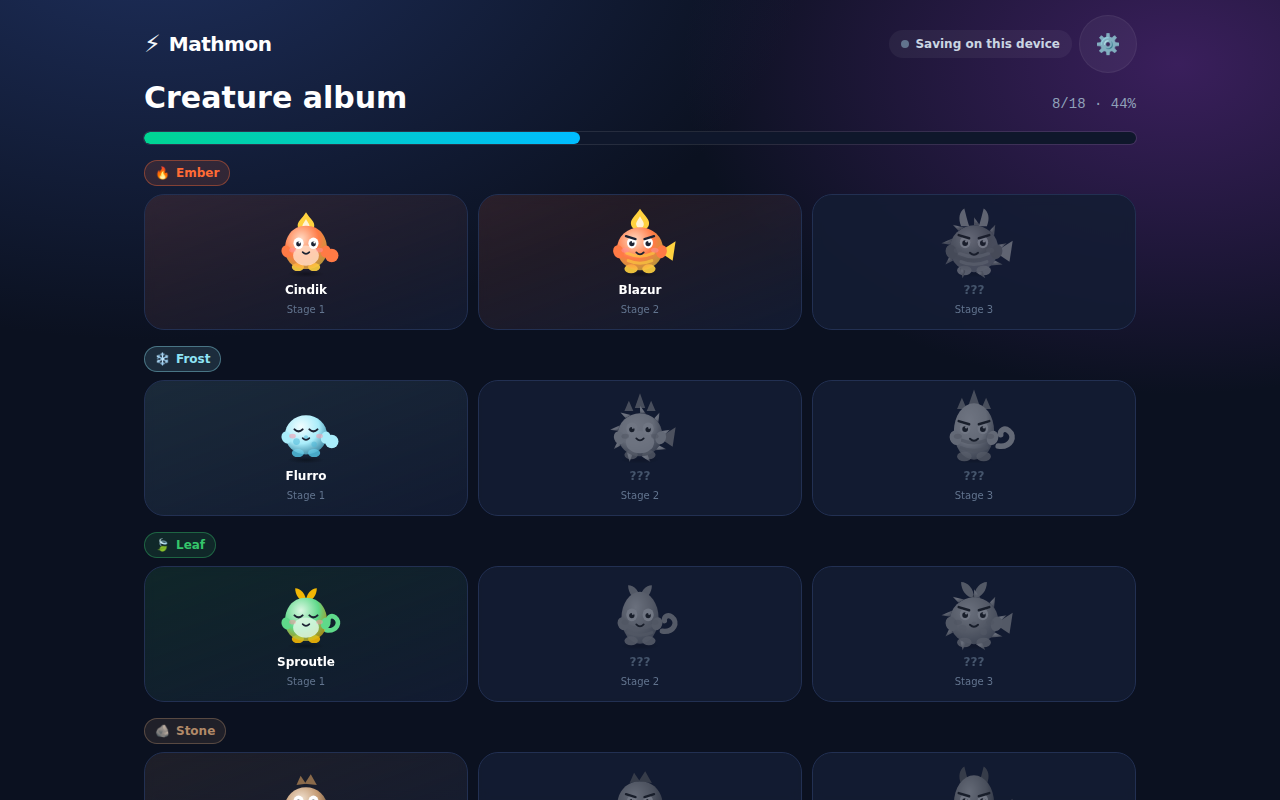
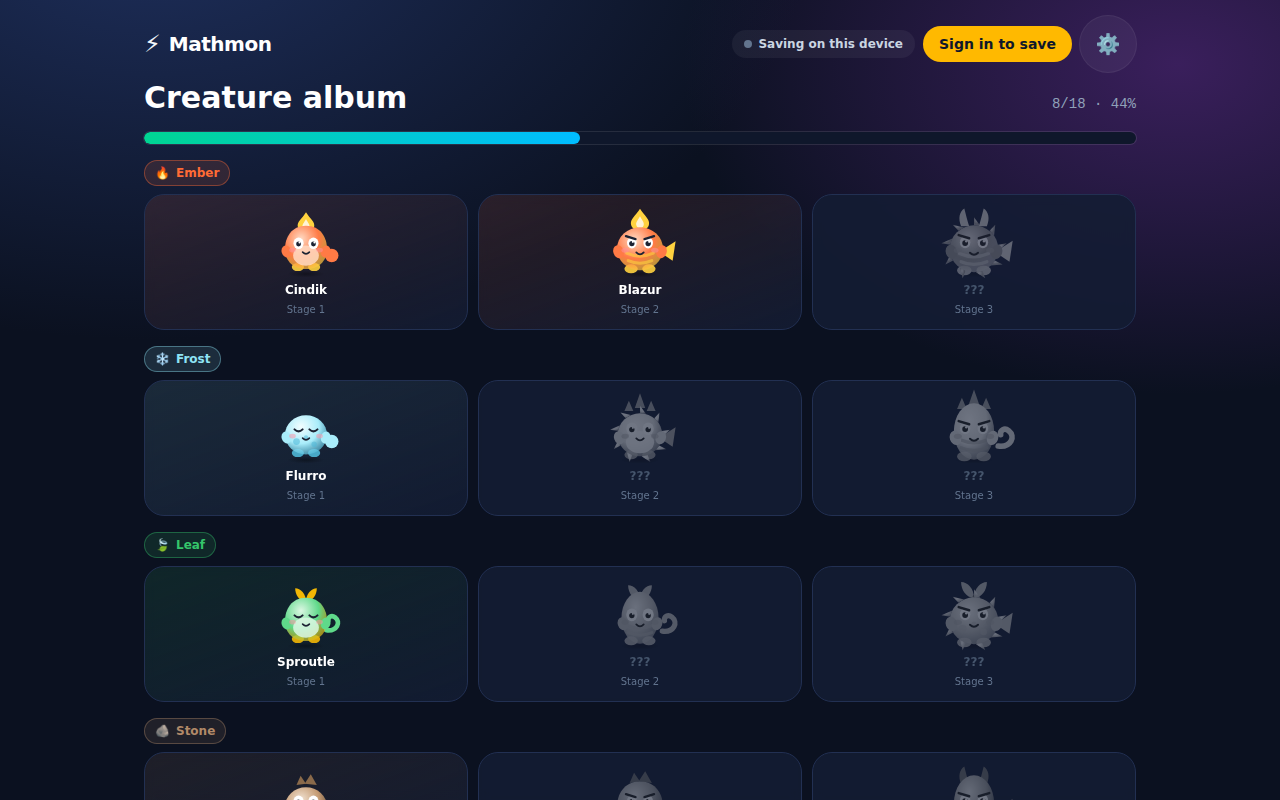
fix(ci): exercise both deployment shapes instead of assuming one
CI went red on the first run that had a database attached, and it was right
to: two E2E tests asserted the login page says "accounts are not enabled",
which is only true of a deployment without a database. The app behaved
correctly; the tests had baked in one deployment shape.

This project promises two shapes - a zero-config import that saves in the
browser, and the same app with a database attached - so CI now runs the E2E
suite twice, once for each, rather than picking one and hoping. Locally that
is 44 passing without a database and 58 with.

Splits the specs accordingly: "an unsigned-in player saves locally and can
play" is true of every deployment and stays unguarded, while the
accounts-are-off page is guarded to the no-database shape, mirroring the guard
the account specs already use.

Side effect worth having: the sign-in screenshot is now captured against a
server that has a database, so the README shows the actual form rather than
the "accounts are not enabled" notice.

Claude-Session: https://claude.ai/code/session_01Nd7iF8ShCbNVgN33SLXc7X

Changed region(s): [[0.5938, 0.0312, 0.8438, 0.0938]]

diff --git a/e2e/game.spec.ts b/e2e/game.spec.ts
@@ -205,7 +205,9 @@ test.describe('settings', () => {
   });
 });
 
-test.describe('deployment without a database', () => {
+test.describe('playing without an account', () => {
+  // True of every deployment: a player who has not signed in keeps their
+  // progress on the device and can play the whole game.
   test('reports local-only saving and still plays', async ({ page }) => {
     await createTrainer(page);
     const status = page.getByTestId('sync-status');
@@ -214,6 +216,17 @@ test.describe('deployment without a database', () => {
       await expect(status).toContainText(/this device/i);
     }
     await expect(page.getByText('Leo')).toBeVisible();
+  });
+});
+
+test.describe('deployment without a database', () => {
+  // Only meaningful against a server that genuinely has no database - which is
+  // the zero-config Vercel import. CI runs the suite in both shapes.
+  test.beforeEach(async ({ page }) => {
+    const session = (await (await page.request.get('/api/session')).json()) as {
+      accountsAvailable: boolean;
+    };
+    test.skip(session.accountsAvailable, 'this deployment has a database attached');
   });
 
   test('the login page explains that accounts are off rather than erroring', async ({ page }) => {

diff --git a/e2e/screenshots.spec.ts b/e2e/screenshots.spec.ts
@@ -54,7 +54,6 @@ async function seedProfile(page: Page, overrides: Record<string, unknown> = {}) 
 }
 
 test.describe('screenshots', () => {
-  // The desktop viewport is the one used in the README.
   // Screenshots are captured once, at the desktop viewport used in the README.
   test.beforeEach(({}, testInfo) => {
     test.skip(testInfo.project.name !== 'desktop', 'captured on desktop only');
@@ -135,6 +134,8 @@ test.describe('screenshots', () => {
     await shot(page, '12-chinese');
   });
 
+  // Best captured against a server that has a database, so the shot shows the
+  // real form rather than the "accounts are not enabled" notice.
   test('sign in', async ({ page }) => {
     await seedProfile(page);
     await page.goto('/login');
